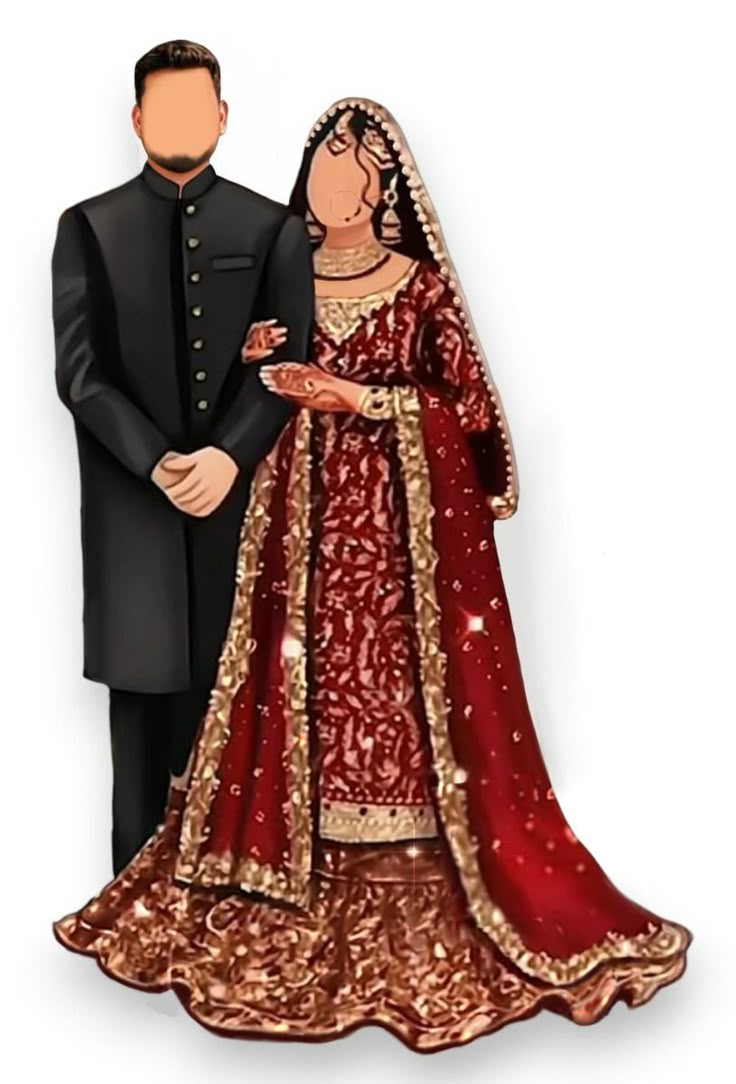
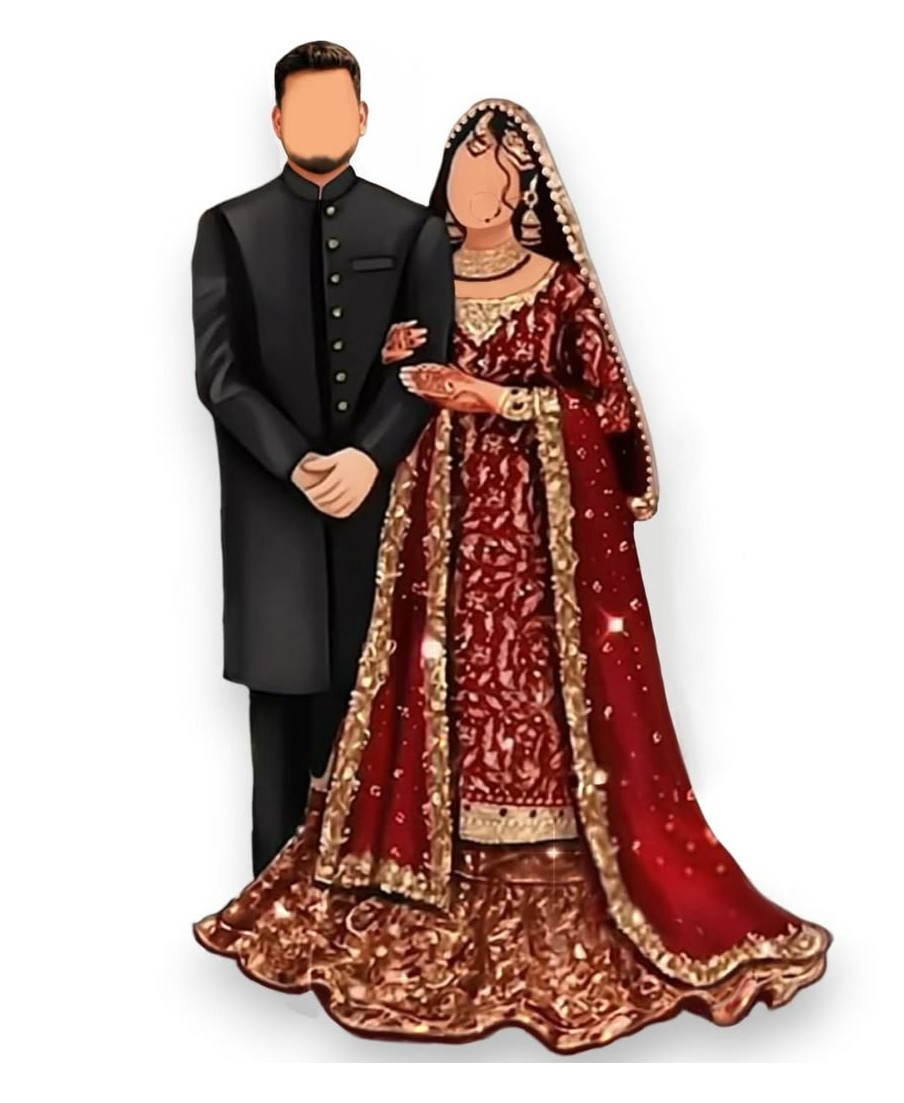
Add couple names, wedding date and Nikkah picture; centre Baraat picture
Claude-Session: https://claude.ai/code/session_01DABnyY1GyTN4tdmhxP1LLg

diff --git a/shaadi-invite/index.html b/shaadi-invite/index.html
@@ -98,7 +98,7 @@ body.opened .home-light { opacity: 1; animation: glowp 5s ease-in-out 3.5s infin
 .home-text { position: absolute; left: 27%; right: 27%; top: 30%; display: flex; flex-direction: column; align-items: center; gap: 1.4cqw; text-align: center; }
 .home-text p { margin: 0; }
 .home-text .wl { font-size: 2.6cqw; letter-spacing: .34em; text-transform: uppercase; color: #8d6a5c; }
-.home-text .nm { font-family: var(--f-script); font-weight: 400; font-size: 10.5cqw; line-height: 1; color: var(--maroon); margin: 0; display: flex; flex-direction: column; align-items: center; text-shadow: 0 1px 0 rgba(255, 255, 255, .7); }
+.home-text .nm { font-family: var(--f-script); font-weight: 400; font-size: 8.4cqw; text-wrap: balance; line-height: 1; color: var(--maroon); margin: 0; display: flex; flex-direction: column; align-items: center; text-shadow: 0 1px 0 rgba(255, 255, 255, .7); }
 .home-text .nm .amp { font-size: .42em; color: #a3806f; margin: .5cqw 0; }
 .home-text .dt { font-size: 2.9cqw; letter-spacing: .26em; text-transform: uppercase; color: #6d5148; }
 .home .petal-layer { position: absolute; inset: 0; width: 100%; height: 100%; pointer-events: none; z-index: 2; }
@@ -384,8 +384,9 @@ textarea.input { min-height: 84px; resize: vertical; }
    Dates use Pakistan time (+05:00). Phone numbers: any format.
    ===================================================================== */
 const INVITE = {
-  groom: "Ayaan",
-  bride: "Zoya",
+  groom: "Habib Ullah",
+  bride: "Rameen",
+  weddingDate: "2027-11-14T19:00:00+05:00",   // the main date shown on the home screen
   city: "Lahore",
   timeZone: "Asia/Karachi",
   shareLink: "",            // paste your final invite link here once it's live
@@ -415,21 +416,22 @@ const INVITE = {
   // Each event can have its own picture (art) and focus point (artPos). Without one it uses couple.jpg.
   events: [
     { key: "dholki", name: "Dholki",
-      start: "2027-03-06T20:00:00+05:00", end: "2027-03-06T23:59:00+05:00", timeNote: "onwards",
+      start: "2027-11-10T20:00:00+05:00", end: "2027-11-10T23:59:00+05:00", timeNote: "onwards",
       venue: "Dholki at home", address: "Block E, Sabzazar Scheme, Lahore", maps: "Sabzazar Scheme Lahore" },
     { key: "mehndi", name: "Mehndi",
-      start: "2027-03-08T19:00:00+05:00", end: "2027-03-08T23:59:00+05:00", timeNote: "onwards",
+      start: "2027-11-12T19:00:00+05:00", end: "2027-11-12T23:59:00+05:00", timeNote: "onwards",
       venue: "Rehman House", address: "Block E, Sabzazar Scheme, Lahore", maps: "Sabzazar Scheme Lahore",
       art: "mehndi.jpg", artPos: "50% 100%" },
     { key: "nikkah", name: "Nikkah",
-      start: "2027-03-10T16:00:00+05:00", end: "2027-03-10T18:00:00+05:00", timeNote: "sharp",
-      venue: "Neighbourhood Masjid", address: "Model Town, Lahore", maps: "Model Town Lahore" },
+      start: "2027-11-14T16:00:00+05:00", end: "2027-11-14T18:00:00+05:00", timeNote: "sharp",
+      venue: "Neighbourhood Masjid", address: "Model Town, Lahore", maps: "Model Town Lahore",
+      art: "nikkah.jpg", artPos: "56% 50%" },
     { key: "baraat", name: "Baraat",
-      start: "2027-03-10T19:00:00+05:00", end: "2027-03-10T23:59:00+05:00", timeNote: "onwards",
+      start: "2027-11-14T19:00:00+05:00", end: "2027-11-14T23:59:00+05:00", timeNote: "onwards",
       venue: "The Garden Marquee", address: "Main Boulevard, Johar Town, Lahore", maps: "Johar Town Lahore",
-      art: "baraat.jpg", artPos: "50% 0%", artBg: "#ffffff" },
+      art: "baraat.jpg", artPos: "50% 50%", artBg: "#ffffff" },
     { key: "walima", name: "Walima",
-      start: "2027-03-12T19:00:00+05:00", end: "2027-03-12T23:30:00+05:00", timeNote: "onwards",
+      start: "2027-11-16T19:00:00+05:00", end: "2027-11-16T23:30:00+05:00", timeNote: "onwards",
       venue: "Hall 1, Pearl Banquet", address: "DHA Phase 5, Lahore", maps: "DHA Phase 5 Lahore",
       art: "walima.jpg", artPos: "40% 100%", artBg: "#ffffff" }
   ],
@@ -442,7 +444,7 @@ const INVITE = {
 
   rsvp: {
     whatsapp: "+92 300 0000000",   // number that receives RSVPs
-    by: "20 February 2027",
+    by: "1 November 2027",
     maxSeats: 8
   },
 
@@ -624,12 +626,13 @@ const INVITE = {
   const namesHTML = `<span>${esc(INVITE.groom)}</span><span class="amp">&amp;</span><span>${esc(INVITE.bride)}</span>`;
   $("hero-names").innerHTML = namesHTML;
   $("arch-names").innerHTML = namesHTML;
-  $("home-date").textContent = fDate.format(events[0].s);
+  const mainDate = new Date(INVITE.weddingDate || events[0].start);
+  $("home-date").textContent = fDate.format(mainDate);
   $("close-h").innerHTML = namesHTML;
   $("message").textContent = INVITE.message;
   $("chips").innerHTML = events.map((e) => `<a class="chip" href="#ev-${esc(e.key)}" data-jump="${esc(e.key)}">${esc(e.name)}</a>`).join("");
   $("closing").textContent = INVITE.closing;
-  $("footer").textContent = `${fDate.format(events[0].s)} · ${INVITE.city}`;
+  $("footer").textContent = `${fDate.format(new Date(INVITE.weddingDate || events[0].start))} · ${INVITE.city}`;
 
   const gcalDate = (d) => d.toISOString().replace(/[-:]/g, "").replace(/\.\d{3}/, "");
   const gcal = (e) => "https://calendar.google.com/calendar/render?action=TEMPLATE"
